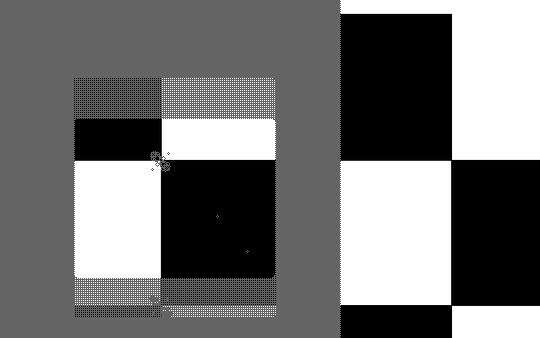
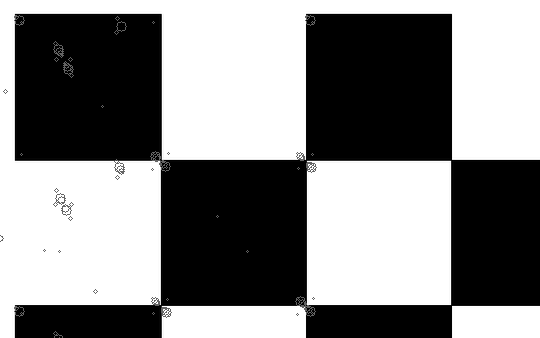
harris laplacian algoritm1

diff --git a/cpp_practice/asign0703/harris_corner.cpp b/cpp_practice/asign0703/harris_corner.cpp
@@ -114,7 +114,7 @@ public:
 				for (int i=-N; i<=N; i++) {
 					for (int j=-N; j<=N; j++) {
 						gauss_val = gaussian(sigma, sqrt(i*i + j*j)); ///// gaussian(sigma, x);
-						gauss += gauss_val*get_img_val(y+i, x+j, img);
+						gauss += gauss_val*get_img_val(y+i, x+j, img); 
 						// std::cout << gauss_val << ' ' << img(i, j) << std::endl;
 					}
 				}
@@ -123,6 +123,7 @@ public:
 		}
 		return mat_gauss;
 	}
+
 	double gaussian(int sigma, double x) {
 		double gauss = (1.0/(sigma*sigma*2.0*M_PI))*exp(-x*x/(2.0*sigma*sigma) ) ;
 		return gauss;
@@ -179,7 +180,7 @@ public:
 	///// args: src image, feature points image
 	cv::Mat_<int> get_log_mat(cv::Mat_<unsigned char> src, cv::Mat_<unsigned char> feature, double sigma) {
 		int rows = src.rows, cols = src.cols;
-		cv::Mat_<int> log_mat(rows, cols);
+		cv::Mat_<int> log_mat = cv::Mat::zeros(rows, cols, CV_32FC1);
 		for (int y=0; y<rows; y++) {
 			for (int x=0; x<cols; x++) {
 				if (feature[y][x] == UCHAR_MAX) {
@@ -265,7 +266,7 @@ private:
 };
 
 
-bool is_maximum(int maximum, int val1, int val2) {
+bool is_max(int maximum, int val1, int val2) {
 	if (val1 > maximum) return false;
 	if (val2 > maximum) return false;
 	return true;
@@ -329,11 +330,11 @@ int main() {
 	///// decide LoG maximum
 	// std::vector<cv::Mat_<unsigned char> > harris_laplacian1s; //// (y, x, val);
 	// std::vector<double[3]> feature_points;
-	int threshold = 10;
-	sigma = 1;
+	int threshold =  10; 
+	sigma = 1 + k;
 	std::vector<cv::Mat_<unsigned char> > harris_laplacian1s;
 	for (int i=1; i<N-1; i++) {
-		cv::Mat_<unsigned char> harris_laplacian1(rows, cols);	
+		cv::Mat_<unsigned char> harris_laplacian1 = cv::Mat::zeros(rows, cols, CV_8UC1);;	
 		std::stringstream ss;
 		ss << sigma;
 		harris.sig_str = ss.str();
@@ -344,30 +345,32 @@ int main() {
 					max = val;
 					int val1 = log_imgs[i-1](y, x);
 					int val2 = log_imgs[i+1](y, x);
-					if (is_maximum(max, val1, val2)) {
+					if (is_max(max, val1, val2)) {
+						std::cout << y << "," << x << std::endl;
 						harris_laplacian1(y, x) = UCHAR_MAX;
 					}
 				}
 			}
 		}
-		std::cout << "harris laplacian = " <<  harris_laplacian1.size() << std::endl;
-		std::cout << harris.img_dir + "harris_laplacian1_" + harris.sig_str + harris.ext << std::endl;
-		harris_laplacian1s.push_back(harris_laplacian1);
-		imwrite(harris.img_dir + "harris_laplacian1_" + harris.sig_str + harris.ext, harris_laplacian1);
+		// std::cout << "harris laplacian = " <<  harris_laplacian1.size() << std::endl; 
+		std::cout << harris.img_dir + "harris_laplacian1_" + harris.sig_str + harris.ext << std::endl; 
+		harris_laplacian1s.push_back(harris_laplacian1); 
+		imwrite(harris.img_dir + "harris_laplacian1_" + harris.sig_str + harris.ext, harris_laplacian1); 
 		sigma += k;
 	}
 	///// draw circle
 	cv::Mat_<unsigned char> src = cv::imread(harris.img_dir + "Chessboard" + harris.ext, 0);
+	int f = 3;
 	for (int i=0; i<N-3; i++) {
 		for (int y=0; y<rows; y++) {
 			for (int x=0; x<cols; x++) {
 				if (harris_laplacian1s[i](y, x) == UCHAR_MAX) {
 					cv::Point2i pt(y, x);
-					cv::circle(src, pt, (i*k+1), 100);
+					cv::circle(src, pt, (i*k*f), 100);
 				}
 			}
 		}
 	}
-	cv::imwrite("circled_src.png", src);
+	cv::imwrite(harris.img_dir + "circled_src" + harris.ext, src);
 	return 0;
 }
